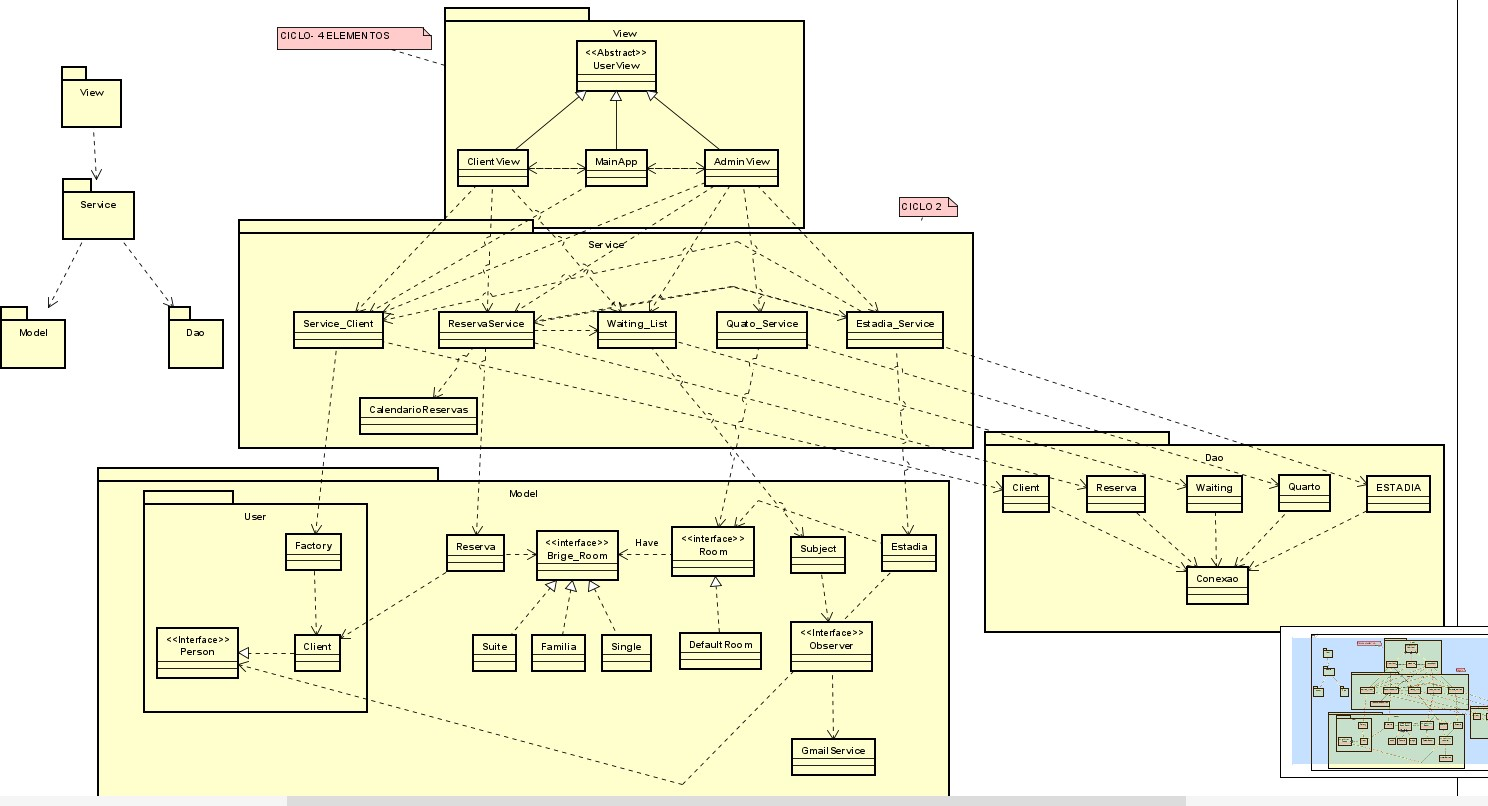
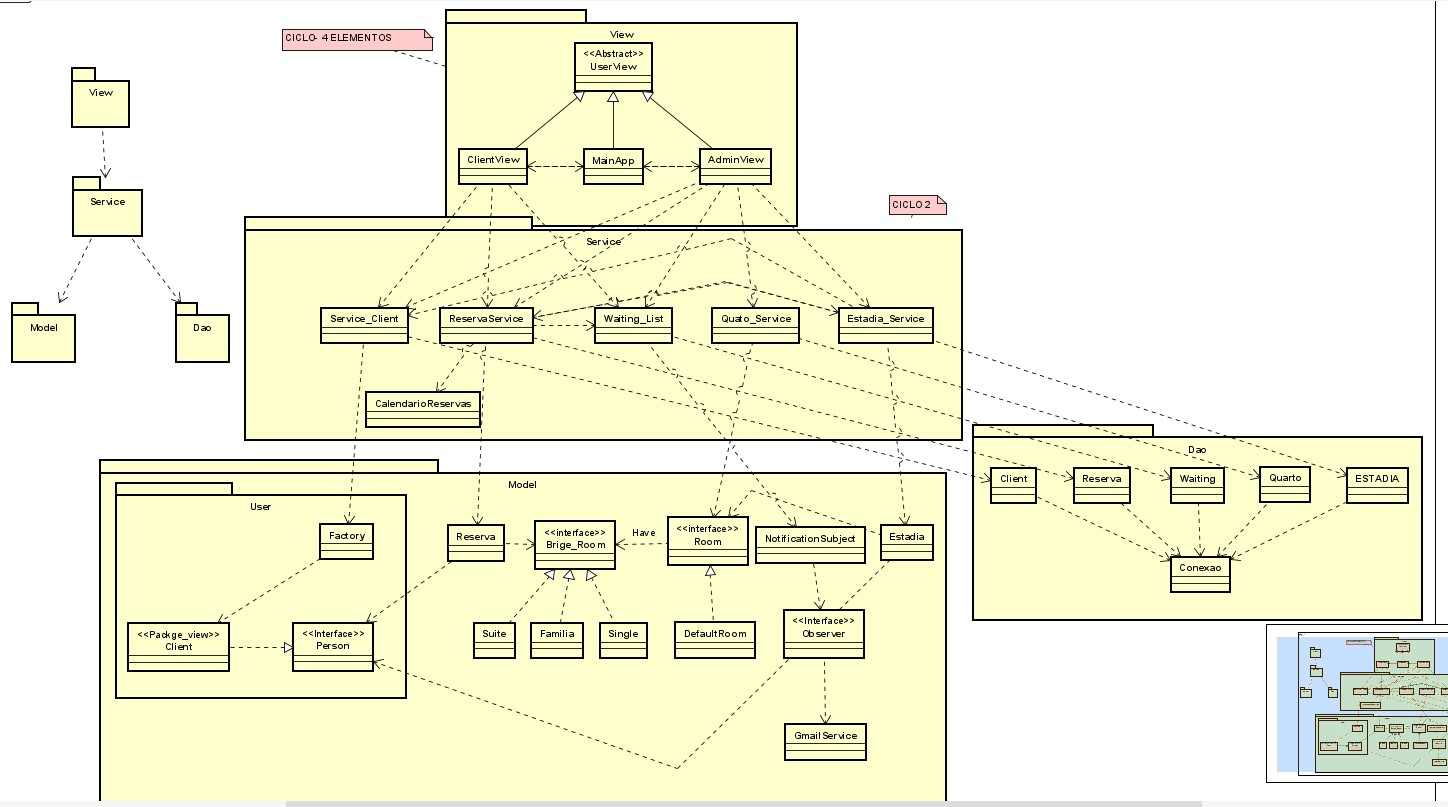
cliente completamente com vizibilidade de pacote e Todos usam apenas a interface

diff --git a/src/main/java/br/ufscar/dc/pooa/dao/ClientDAO.java b/src/main/java/br/ufscar/dc/pooa/dao/ClientDAO.java
@@ -1,6 +1,7 @@
 package br.ufscar.dc.pooa.dao;
 
-import br.ufscar.dc.pooa.Model.domain.users.Client;
+
+import br.ufscar.dc.pooa.Model.domain.users.Factory_Person;
 import br.ufscar.dc.pooa.Model.domain.users.Person;
 
 import java.sql.Connection;
@@ -21,7 +22,7 @@ public class ClientDAO {
         PreparedStatement pst = connection.prepareStatement(query);
         ResultSet rs = pst.executeQuery();
         while (rs.next()) {
-            Person client = new Client();
+            Person client = Factory_Person.createPerson("null", "null", "null", new Date(), "null");
             settingAtributes(rs, client);
             clients.add(client);
         }
@@ -96,9 +97,9 @@ public class ClientDAO {
         PreparedStatement pst = connection.prepareStatement(query);
         pst.setInt(1, idCliente);
         ResultSet rs = pst.executeQuery();
-        Client client = null;
+        Person client = null;
         if (rs.next()) {
-            client = new Client();
+            client = Factory_Person.createPerson("null", "null", "null", new Date(), "null");
             settingAtributes(rs, client);
         }
         connection.close();

diff --git a/src/main/java/br/ufscar/dc/pooa/Model/domain/users/Client.java b/src/main/java/br/ufscar/dc/pooa/Model/domain/users/Client.java
@@ -3,7 +3,7 @@ package br.ufscar.dc.pooa.Model.domain.users;
 
 import java.util.Date;
 
-public class Client implements Person {
+class Client implements Person {
     private int id;
     private String password;
     private String email;
@@ -22,11 +22,7 @@ public class Client implements Person {
         this.setEmail(email);
         this.setPhone(phone);
     }
-
-    public Client() {
-        super();
-    }
-
+    
 
     public void setId(int id) {
         setPersonId(id);
